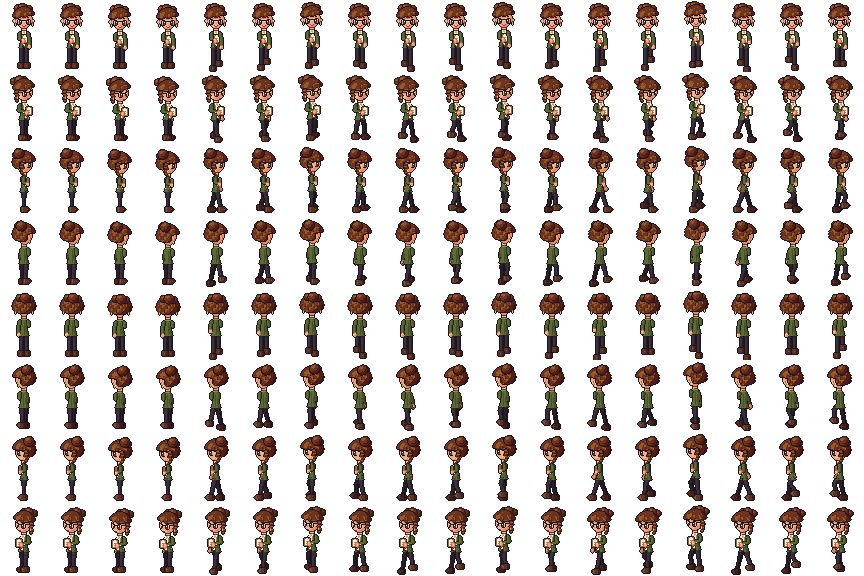
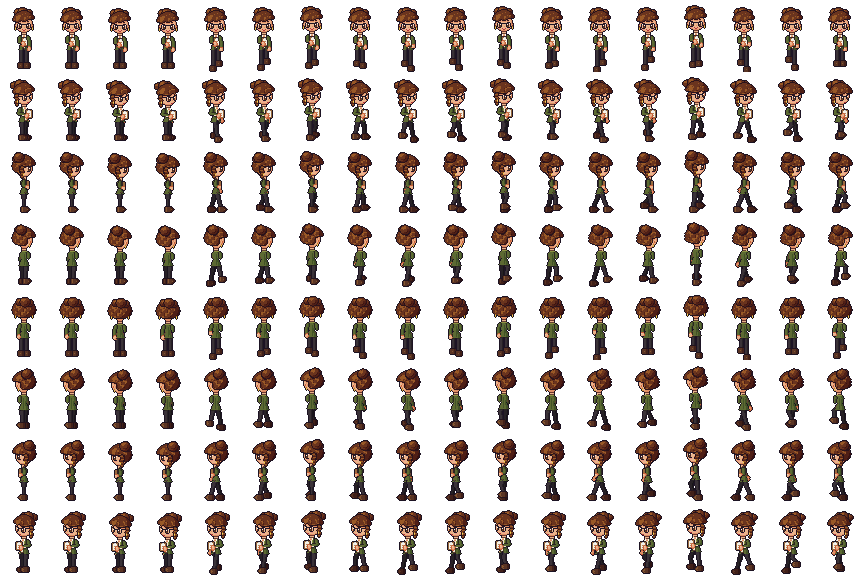
Rounder heads and shorter bodies
Faces get full cheeks and a soft chin instead of a pointed jaw, a single
edge shadow instead of a half-face block, and small one-pixel ears. The
torso and legs are each two rows shorter, with arms scaled to match.

Claude-Session: https://claude.ai/code/session_01EfrosEJNuJAWzsbhjRadEB

diff --git a/js/body.js b/js/body.js
@@ -40,8 +40,8 @@
     const up = -hg + (pose.bob || 0);
     const breath = pose.breath || 0;
     const lean = pose.lean || 0;
-    const hipY = ground - 22 + up;
-    const sy = hipY - 14 + breath;
+    const hipY = ground - 20 + up;
+    const sy = hipY - 12 + breath;
     const hcx = cx + s * lean;
     const hcy = sy - 11;
     // a turned torso keeps its front width in 3/4 views and only slims in profile
@@ -68,13 +68,13 @@
       const shy = sy + 2.4;
       if (carrying && i === 0) {
         // carry pose: elbow tucked, forearm forward across the chest
-        const ex = shx + side * 0.6 - s * 0.5, ey = sy + 7.2;
-        const wx = cx + s * (hw + 0.5) - c * r * 0.8, wy = sy + 9 + c * 0.5;
+        const ex = shx + side * 0.6 - s * 0.5, ey = sy + 6.4;
+        const wx = cx + s * (hw + 0.5) - c * r * 0.8, wy = sy + 8 + c * 0.5;
         return { r, out, depth: r * s, carry: true, sh: [shx, shy], el: [ex, ey], wr: [wx, wy], hand: [wx + s * 0.4, wy + 0.4] };
       }
       const sw = (pose.arms && pose.arms[i]) || 0;
-      const ex = shx + side * 1.2 + s * sw * 0.45, ey = sy + 8.2 + c * sw * 0.2;
-      const wx = shx + side * 1.0 + s * sw, wy = sy + 14.4 + c * sw * 0.5 - Math.abs(sw) * 0.35;
+      const ex = shx + side * 1.2 + s * sw * 0.45, ey = sy + 7.2 + c * sw * 0.2;
+      const wx = shx + side * 1.0 + s * sw, wy = sy + 12.6 + c * sw * 0.5 - Math.abs(sw) * 0.35;
       return { r, out, depth: r * s, sh: [shx, shy], el: [ex, ey], wr: [wx, wy], hand: [wx + s * 0.4, wy + 1.4] };
     });
 
@@ -177,8 +177,8 @@
     const lx = cx + s * (R.pose.lean || 0) * 0.5;
     return [
       [lx - hw + 2.6, top], [lx + hw - 2.6, top], [lx + hw - 0.6, top + 1.4], [lx + hw, top + 3.2],
-      [lx + hw - 0.3 + chest, top + 6.5], [cx + wW + belly * s, top + 10], [cx + hipW, hem], [cx - hipW, hem],
-      [cx - wW - belly * s * 0.3, top + 10], [lx - hw + 0.3, top + 6.5], [lx - hw, top + 3.2], [lx - hw + 0.6, top + 1.4],
+      [lx + hw - 0.3 + chest, top + 5.5], [cx + wW + belly * s, top + 8.5], [cx + hipW, hem], [cx - hipW, hem],
+      [cx - wW - belly * s * 0.3, top + 8.5], [lx - hw + 0.3, top + 5.5], [lx - hw, top + 3.2], [lx - hw + 0.6, top + 1.4],
     ];
   }
 
@@ -203,7 +203,7 @@
     if (def.skinTorso || def.tank) {
       fr.draw(fr.mask().poly(torsoPts(R)), { ramp: R.ramps.skin, shade: 'cyl', outline: 'full', tag: TAG.skin, th: [0.9, 0.2, -0.6] });
       if (def.skinTorso) {
-        if (front) { fr.px(nx, sy + 11, R.ramps.skin, 2, TAG.skin); fr.px(nx - 2, sy + 5, R.ramps.skin, 2, TAG.skin); fr.px(nx + 1, sy + 5, R.ramps.skin, 2, TAG.skin); }
+        if (front) { fr.px(nx, sy + 9, R.ramps.skin, 2, TAG.skin); fr.px(nx - 2, sy + 5, R.ramps.skin, 2, TAG.skin); fr.px(nx + 1, sy + 5, R.ramps.skin, 2, TAG.skin); }
         return;
       }
       const m = fr.mask().poly(torsoPts(R)).clipY(sy + 3, 999);
@@ -221,14 +221,14 @@
       const outer = fr.mask().poly(outerPts);
       if (c > -0.05) {
         const ox = cx + s * hw * 0.6;
-        const wt = Math.max(1.2, 3.6 * c), close = sy + 11;
+        const wt = Math.max(1.2, 3.4 * c), close = sy + 9;
         const open = fr.mask().poly([[ox - wt, sy - 1], [ox + wt, sy - 1], [ox + 0.6, close], [ox - 0.6, close]]);
         // cutaway below the last button
         open.poly([[ox, R.hipY - 2], [ox + 1.6 * c + 0.5, R.hipY + 1 + (def.hem || 0)], [ox - 1.6 * c - 0.5, R.hipY + 1 + (def.hem || 0)]]);
         outer.subtract(open);
         fr.draw(outer, { ramp: R.ramps.top, shade: 'cyl', outline: 'outer', tag: TAG.cloth, th: CLOTH_TH });
         // lapels: light fold beside the opening, dark crease outside it
-        for (let y = sy; y < sy + 8; y++) for (let x = 0; x < fr.w; x++) {
+        for (let y = sy; y < sy + 7; y++) for (let x = 0; x < fr.w; x++) {
           if (!outer.has(x, y)) continue;
           const dl = open.has(x - 1, y) || open.has(x + 1, y);
           const d2 = open.has(x - 2, y) || open.has(x + 2, y);
@@ -236,7 +236,7 @@
           else if (d2 && y > sy) fr.putTone(x, y, R.ramps.top, 2, TAG.cloth);
           else if ((open.has(x - 3, y) || open.has(x + 3, y)) && y > sy + 1 && y < sy + 6) fr.putTone(x, y, R.ramps.top, 3, TAG.cloth);
         }
-        for (let y = sy + 8; y < R.hipY + (def.hem || 0); y++) for (let x = 0; x < fr.w; x++) {
+        for (let y = sy + 7; y < R.hipY + (def.hem || 0); y++) for (let x = 0; x < fr.w; x++) {
           if (outer.has(x, y) && (open.has(x - 1, y) || open.has(x + 1, y))) fr.putTone(x, y, R.ramps.top, 3, TAG.cloth);
         }
         // shirt collar and skin V
@@ -253,7 +253,7 @@
         }
         // buttons and pockets
         const bx = Math.floor(ox) - (c > 0.5 ? 1 : 0);
-        if (c > 0.3) { fr.px(bx, sy + 12, R.ramps.top, 3); fr.px(bx, sy + 14, R.ramps.top, 3); }
+        if (c > 0.3) { fr.px(bx, sy + 10, R.ramps.top, 3); fr.px(bx, sy + 12, R.ramps.top, 3); }
         if (c > 0.3) {
           for (const side of [-1, 1]) {
             if (side > 0 && s > 0.5) continue;
@@ -290,8 +290,8 @@
         }
         if (def.pocket && c > 0.3) {
           const pl = Math.round(cx - 3.5 + s * 1.5), pr = Math.round(cx + 2.5 + s * 1.5);
-          for (let x = pl + 1; x < pr; x++) fr.darken(x, sy + 9, 1);
-          for (let y = sy + 9; y < R.hipY - 1; y++) { fr.darken(pl, y, 1); fr.darken(pr, y, 1); }
+          for (let x = pl + 1; x < pr; x++) fr.darken(x, sy + 7, 1);
+          for (let y = sy + 7; y < R.hipY - 1; y++) { fr.darken(pl, y, 1); fr.darken(pr, y, 1); }
         }
         if (def.hood) {
           const dx = c > 0.5 ? [nx - 2, nx + 1] : [nx];
@@ -310,9 +310,9 @@
     }
 
     if (def.belt) {
-      const belt = fr.mask().poly(outerPts).clipY(sy + 11, sy + 13);
+      const belt = fr.mask().poly(outerPts).clipY(sy + 9, sy + 11);
       fr.draw(belt, { ramp: R.ramps.top2, shade: 'cyl', outline: 'none', tag: TAG.cloth });
-      if (front) { const g = ramp('#e8b030'); fr.px(nx, sy + 11, g, 0, TAG.other); fr.px(nx, sy + 12, g, 2, TAG.other); fr.px(nx - 1, sy + 11, g, 1, TAG.other); fr.px(nx - 1, sy + 12, g, 2, TAG.other); }
+      if (front) { const g = ramp('#e8b030'); fr.px(nx, sy + 9, g, 0, TAG.other); fr.px(nx, sy + 10, g, 2, TAG.other); fr.px(nx - 1, sy + 9, g, 1, TAG.other); fr.px(nx - 1, sy + 10, g, 2, TAG.other); }
     }
   }
 
@@ -326,8 +326,8 @@
       const ax = cx + s * hw * 0.55;
       const half = Math.max(1.5, (hw - 1.5) * c + 1.2 * s);
       const m = fr.mask().poly([
-        [ax - half + 1, sy + 3], [ax + half - 1, sy + 3], [ax + half - 0.5, sy + 9],
-        [ax + half + 1.2, hipY + 10], [ax - half - 1.2, hipY + 10], [ax - half + 0.5, sy + 9],
+        [ax - half + 1, sy + 3], [ax + half - 1, sy + 3], [ax + half - 0.5, sy + 8],
+        [ax + half + 1.2, hipY + 9], [ax - half - 1.2, hipY + 9], [ax - half + 0.5, sy + 8],
       ]);
       fr.draw(m, { ramp: A, shade: 'cyl', outline: 'full', tag: TAG.cloth, th: CLOTH_TH });
       // neck strap and pocket
@@ -343,7 +343,7 @@
       }
     } else {
       // ties at the back of the waist
-      const y = sy + 10;
+      const y = sy + 8;
       const m = fr.mask().rect(Math.round(cx - hw + 0.5), y, Math.round(hw * 2 - 1), 1);
       m.ellipse(cx - 1.5 + s * 1, y + 1, 1.5, 1.3).ellipse(cx + 1.5 + s * 1, y + 1, 1.5, 1.3).rect(Math.round(cx - 1 + s), y + 1, 2, 4);
       fr.draw(m, { ramp: A, shade: 'flat', flat: 1, outline: 'full', tag: TAG.cloth });
@@ -473,7 +473,7 @@
       const z = -c;
       const px = cx - s * (hw + 2);
       const half = (12 * Math.abs(c) + 6 * s) / 2;
-      const top = sy + 1, bot = sy + 15;
+      const top = sy + 1, bot = sy + 13;
       const draw = (fr) => {
         const m = fr.mask().poly([[px - half + 1.5, top], [px + half - 1.5, top], [px + half, top + 2], [px + half, bot], [px - half, bot], [px - half, top + 2]]);
         fr.draw(m, { ramp: B, shade: 'cyl', outline: 'full', tag: TAG.cloth, th: CLOTH_TH,

diff --git a/js/head.js b/js/head.js
@@ -292,14 +292,14 @@
     const s = R.s;
     m.fill(e.cx - e.rx - 2, e.cy - e.ry - 1, e.cx + e.rx + 2, e.cy + e.ry + 1, (px, py) => {
       const dyn = (py - e.cy) / e.ry;
-      const jaw = dyn > 0 ? dyn : 0;
-      const k = 1 - (0.3 + 0.35 * Math.max(0, -R.c)) * jaw * jaw;
-      const dx = px - e.cx - s * 1.1 * jaw * jaw;
+      const jaw = dyn > 0.25 ? (dyn - 0.25) / 0.75 : 0; // full cheeks, then a soft rounded chin
+      const k = 1 - (0.2 + 0.4 * Math.max(0, -R.c)) * jaw * jaw;
+      const dx = px - e.cx - s * 0.9 * jaw * jaw;
       // from behind only the neck shows below the skull, except the cheek and jaw on the
       // side turned toward the camera in a 3/4 back view
       const nearCheek = R.Rv.z > 0.3 && dx * R.Rv.x > 0;
       if (R.c < -0.1 && dyn > 0.45 && Math.abs(dx) > 3 && !nearCheek) return false;
-      return Math.abs(dx / (e.rx * k)) ** 2.2 + Math.abs(dyn) ** 2.2 <= 1;
+      return Math.abs(dx / (e.rx * k)) ** 2.3 + Math.abs(dyn) ** 2.3 <= 1;
     });
     return m;
   }
@@ -671,11 +671,11 @@
 
     drawHat(fr, R, 'before');
     for (const ear of earList.filter((e) => e.kind === 'edge')) {
-      fr.draw(fr.mask().ellipse(ear.x + ear.side * 0.3, ear.y + 2, 1.4, 2.3), { ramp: skin, shade: 'flat', flat: 1, outline: 'full', tag: TAG.skin });
+      fr.draw(fr.mask().rect(ear.side > 0 ? ear.x : ear.x, ear.y + 1, 1, 3), { ramp: skin, shade: 'flat', flat: 1, outline: 'full', tag: TAG.skin });
     }
-    fr.draw(fm, { ramp: skin, shade: 'sphere', ell: R.face, th: [0.97, 0.02, -0.85], outline: 'full', tag: TAG.skin });
+    fr.draw(fm, { ramp: skin, shade: 'edge', outline: 'full', tag: TAG.skin });
     for (const ear of earList) {
-      if (ear.kind === 'edge') { fr.px(ear.x, ear.y + 1, skin, 2, TAG.skin); fr.px(ear.x, ear.y + 2, skin, 2, TAG.skin); }
+      if (ear.kind === 'edge') { fr.px(ear.x, ear.y + 2, skin, 2, TAG.skin); }
       else {
         for (let j = 0; j < 4; j++) fr.px(ear.x, ear.y + j, skin, j === 0 || j === 3 ? 2 : 1, TAG.skin);
         fr.px(ear.x + ear.back, ear.y + 1, skin, 2, TAG.skin); fr.px(ear.x + ear.back, ear.y + 2, skin, 2, TAG.skin);

diff --git a/README.md b/README.md
@@ -19,7 +19,7 @@ npx http-server -p 8080 .
 
 | Setting      | Default                                                                 |
 | ------------ | ----------------------------------------------------------------------- |
-| Frame        | 48 × 72 px, character about 26 × 62 px. Padded 64 × 80 and 64 × 96 are also available |
+| Frame        | 48 × 72 px, character about 26 × 56 px. Padded 64 × 80 and 64 × 96 are also available |
 | Pivot        | Feet, 5 px above the bottom of the frame (`pivot` in the atlas)          |
 | Directions   | S, SE, E, NE, N, NW, W, SW. W, SW and NW are mirrored from E, SE and NE  |
 | Animations   | idle (4 frames, 5 fps), walk (8 frames, 10 fps), run (6 frames, 14 fps)  |
